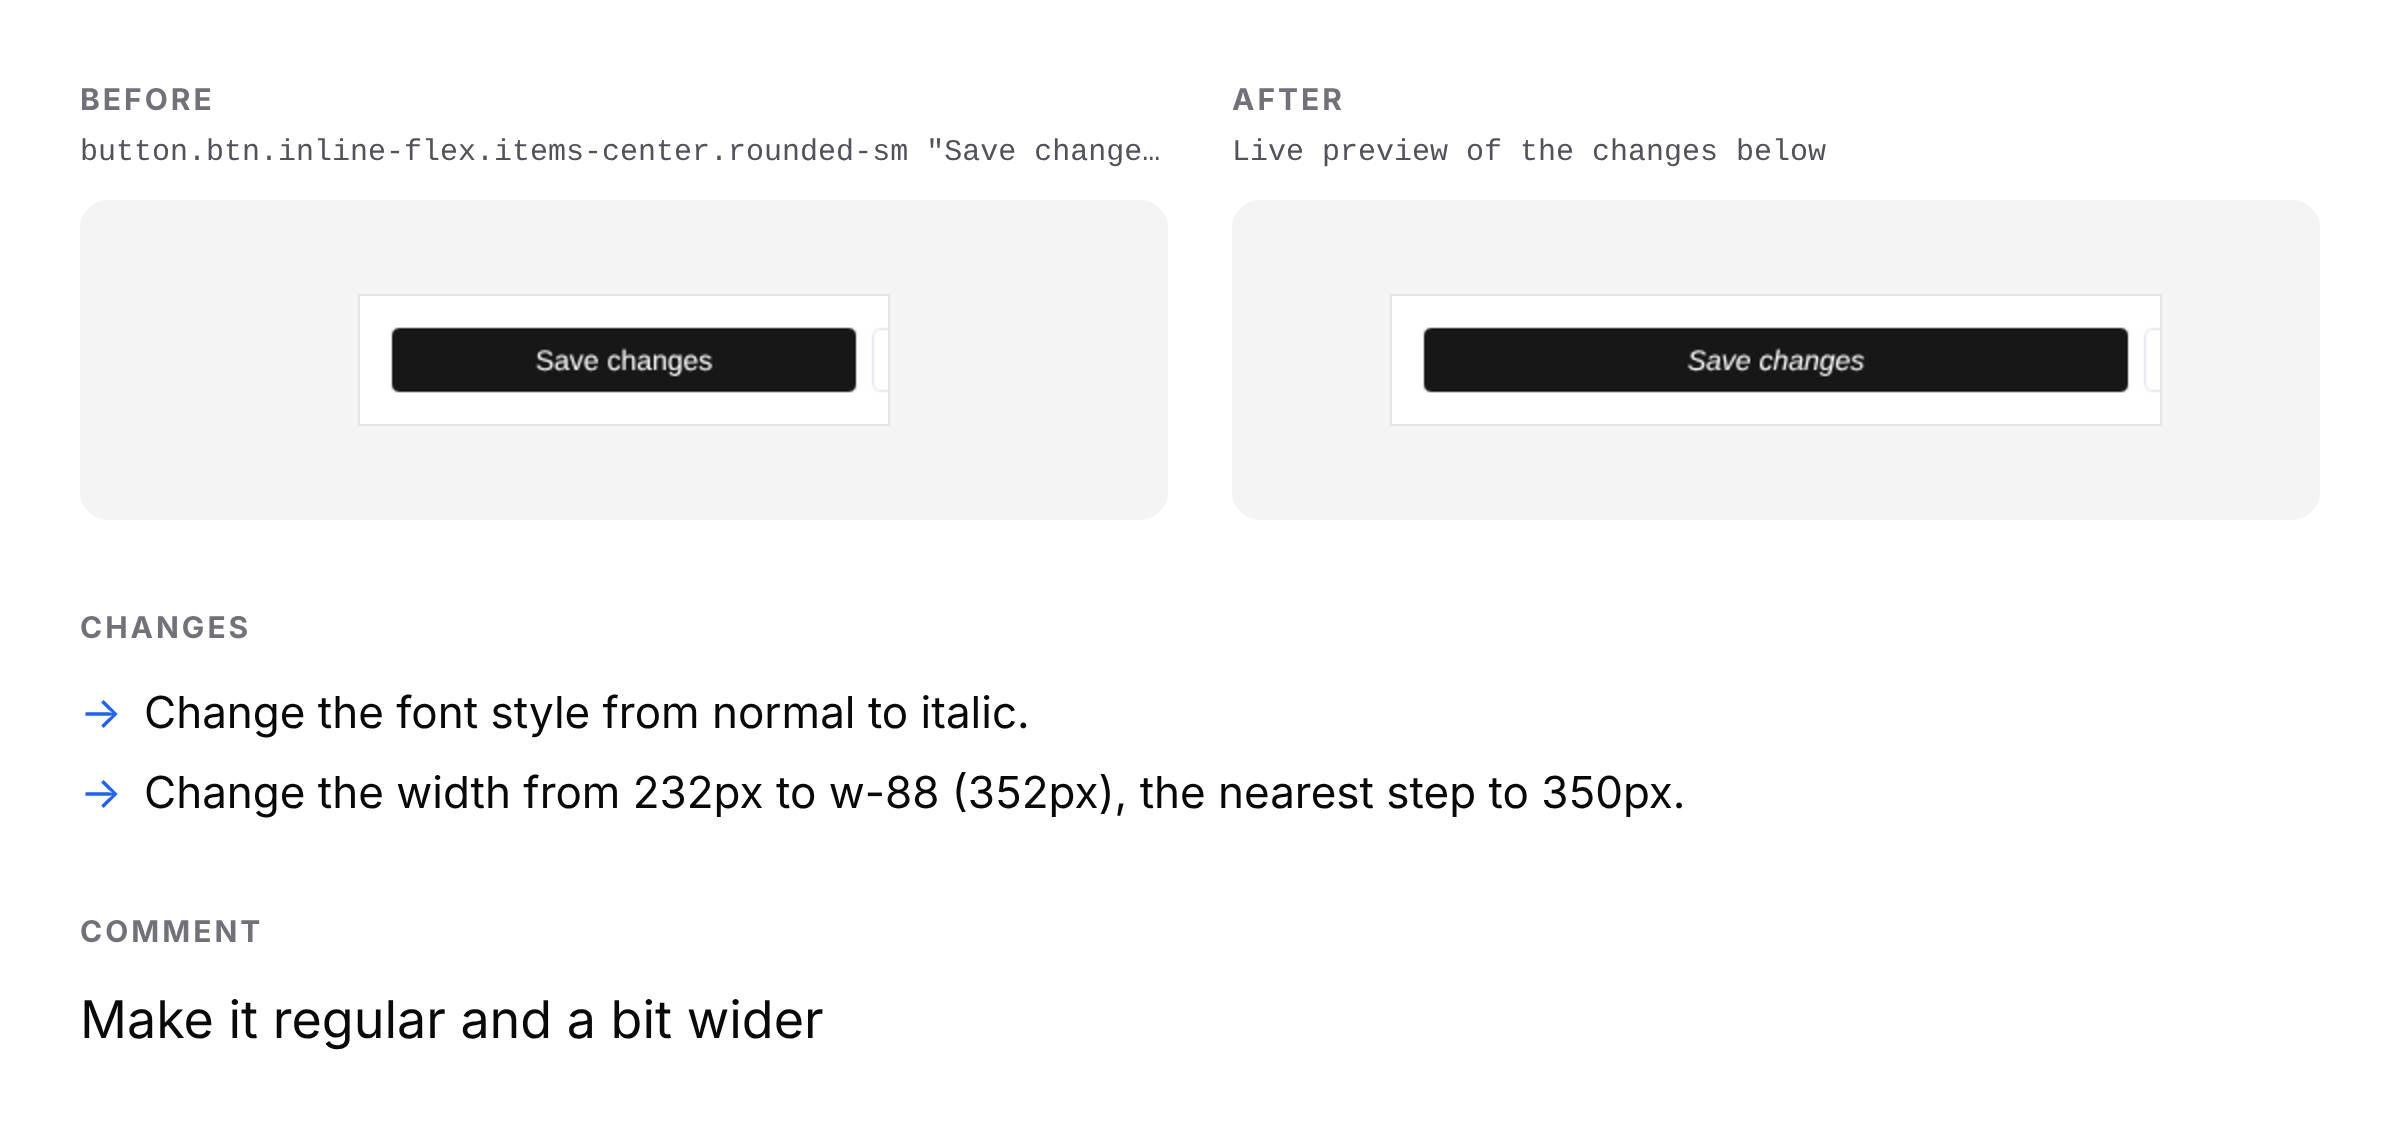
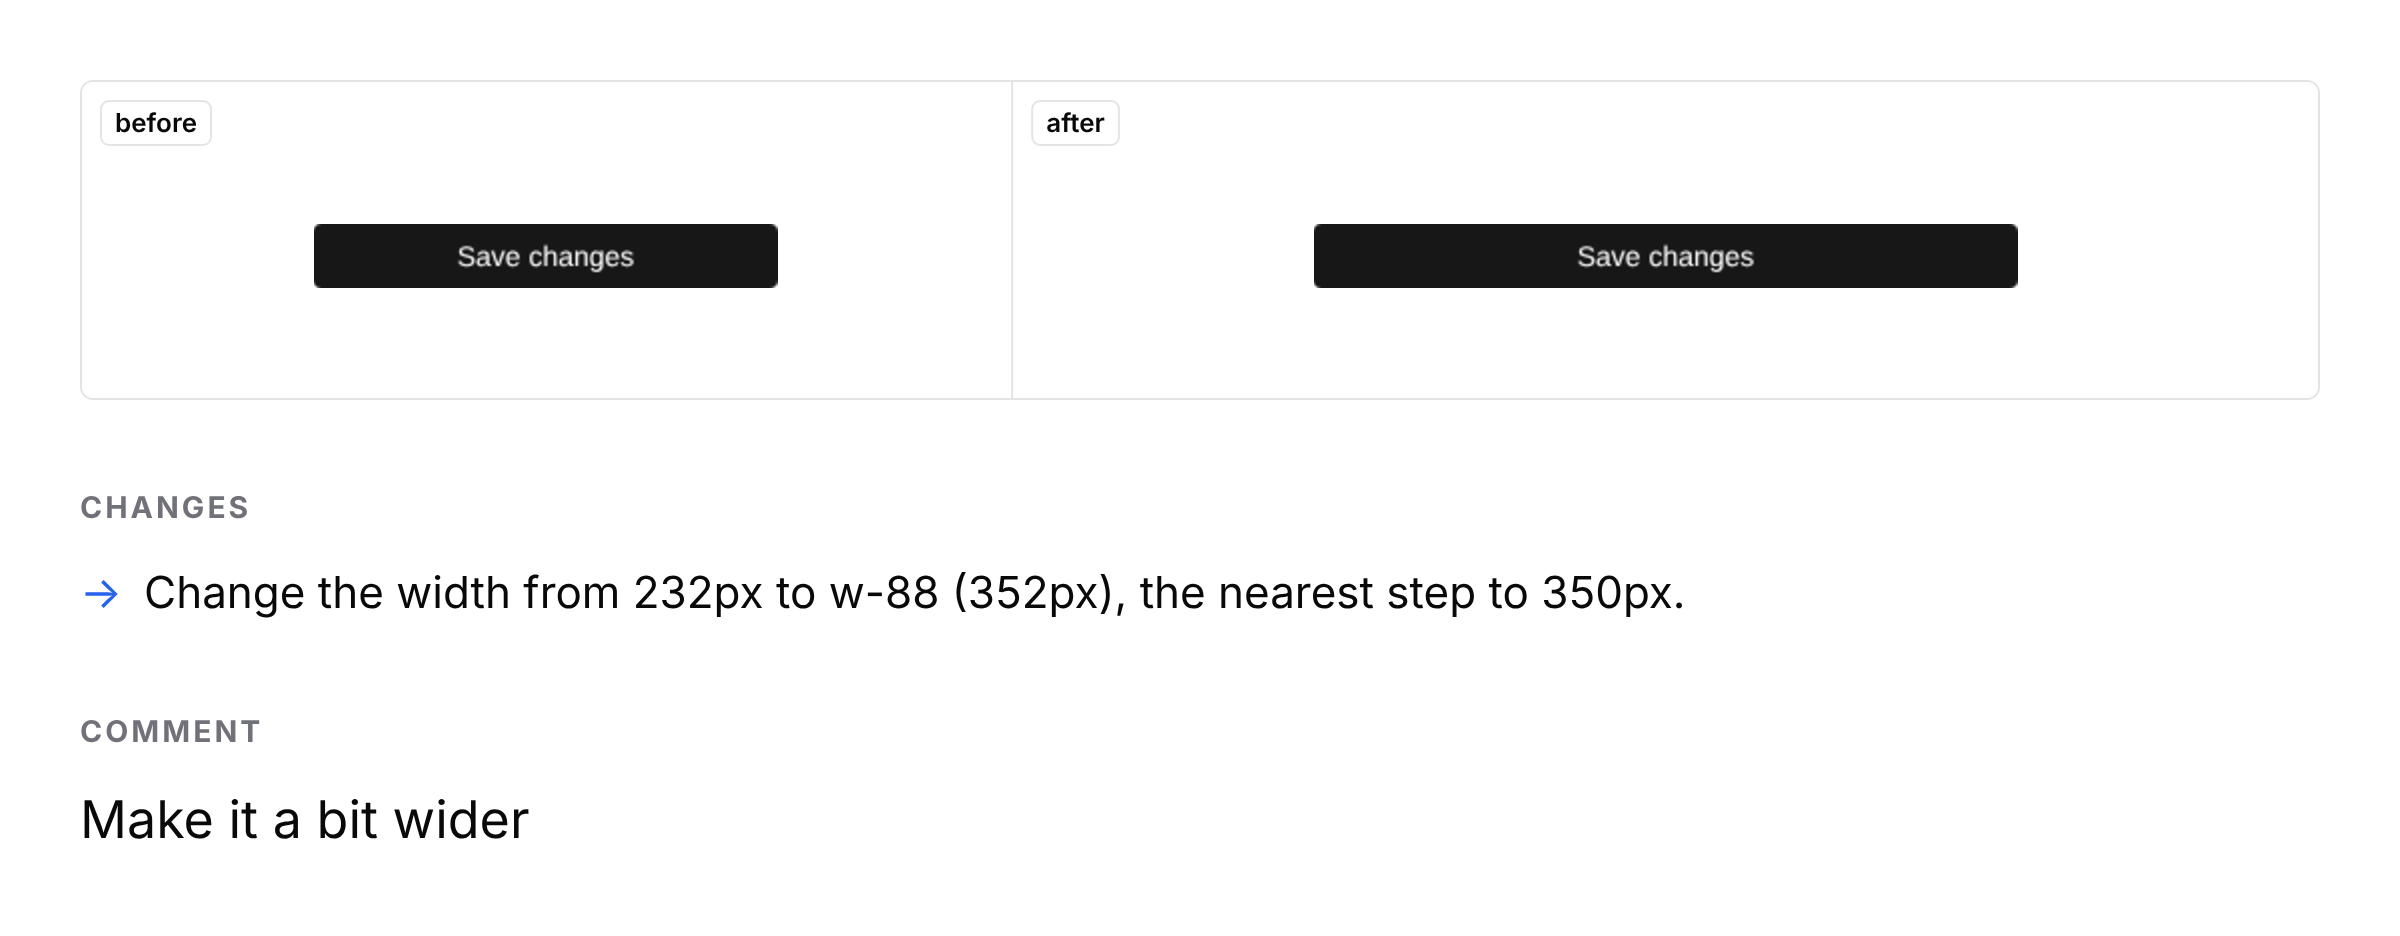
Draw Before and After in one white frame, at the same scale
The handoff image put each picture on a grey panel and fitted each one
separately, so a wide After was shrunk smaller than the Before. Both now
sit in one white frame split by a line, with small boxed before/after
tags, drawn at one shared scale; each column is as wide as its picture,
and spare width is shared in proportion. The README's example image is
regenerated.

diff --git a/src/content/compose.ts b/src/content/compose.ts
@@ -14,12 +14,13 @@ export interface ComposeInput {
 
 const W = 1200
 const PAD = 40
-const GAP = 32
-const COL = (W - PAD * 2 - GAP) / 2
 const SCALE = 2
 // Tall enough that stitched captures of long elements stay readable.
-const MAX_PANEL_H = 1200
-const PANEL_PAD = 20
+const MAX_PICTURE_H = 1160
+/** Room around each picture inside the frame, and above it for the tag. */
+const CELL_PAD = 32
+const TAG_ROOM = 48
+const MIN_FRAME_H = 160
 const BULLET = 32
 const CHANGE_LINE = 32
 const CHANGE_GAP = 8
@@ -32,7 +33,6 @@ const C = {
   muted: '#52525B',
   faint: '#71717A',
   line: '#E4E4E7',
-  panel: '#F4F4F5',
   accent: '#2563EB',
 }
 
@@ -60,25 +60,34 @@ function wrap(ctx: CanvasRenderingContext2D, text: string, width: number): strin
   return out
 }
 
-/** Fit inside the panel; never upscale past 2× CSS size so screenshots stay sharp. */
-function fit(img: { width: number; height: number }, maxW: number, maxH: number) {
-  const cssW = img.width / (window.devicePixelRatio || 1)
-  const cssH = img.height / (window.devicePixelRatio || 1)
-  const s = Math.min(maxW / cssW, maxH / cssH, 2)
-  return { w: cssW * s, h: cssH * s }
+/**
+ * Lay the pictures out side by side in one frame, all at the same scale so
+ * Before and After compare honestly: as large as the frame allows, never past
+ * 2× CSS size so screenshots stay sharp. Each column is as wide as its picture
+ * plus padding, and leftover width is shared out in proportion.
+ */
+function layout(pictures: Picture[], frameW: number) {
+  const dpr = window.devicePixelRatio || 1
+  const css = pictures.map((p) => ({ w: p.width / dpr, h: p.height / dpr }))
+  const room = frameW - pictures.length * CELL_PAD * 2
+  const s = Math.min(2, room / css.reduce((sum, c) => sum + c.w, 0), MAX_PICTURE_H / Math.max(...css.map((c) => c.h)))
+  const sizes = css.map((c) => ({ w: c.w * s, h: c.h * s }))
+  const base = sizes.map((z) => z.w + CELL_PAD * 2)
+  const total = base.reduce((a, b) => a + b, 0)
+  const cols = base.map((b) => (b / total) * frameW)
+  return { sizes, cols, pictureH: Math.max(...sizes.map((z) => z.h)) }
 }
 
 export function compose(input: ComposeInput): HTMLCanvasElement {
   // Measure pass on a scratch context, then draw.
   const scratch = document.createElement('canvas').getContext('2d')!
-  const innerW = COL - PANEL_PAD * 2
-  const innerH = MAX_PANEL_H - PANEL_PAD * 2
-  // With no After the element is the only picture: full width, untagged.
-  const single = !input.after
-  const panelW = single ? W - PAD * 2 : COL
-  const bFit = fit(input.before, panelW - PANEL_PAD * 2, innerH)
-  const aFit = input.after ? fit(input.after, innerW, innerH) : null
-  const panelH = Math.max(160, Math.max(bFit.h, aFit?.h ?? 0) + PANEL_PAD * 2)
+  // With no After the element is the only picture, untagged.
+  const pictures = input.after ? [input.before, input.after] : [input.before]
+  const tags = input.after ? ['before', 'after'] : []
+  const frameW = W - PAD * 2
+  const { sizes, cols, pictureH } = layout(pictures, frameW)
+  const top = tags.length ? TAG_ROOM : CELL_PAD
+  const frameH = Math.max(MIN_FRAME_H, top + pictureH + CELL_PAD)
 
   scratch.font = `400 26px ${SANS}`
   const commentLines = wrap(scratch, input.comment, W - PAD * 2)
@@ -86,8 +95,7 @@ export function compose(input: ComposeInput): HTMLCanvasElement {
   const changeLines = input.changes.map((c) => wrap(scratch, c, W - PAD * 2 - BULLET))
 
   let h = PAD
-  if (!single) h += 22 + 12 // labels
-  h += panelH
+  h += frameH
   if (changeLines.length) h += 44 + 22 + 14 + changeLines.flat().length * CHANGE_LINE + (changeLines.length - 1) * CHANGE_GAP
   if (input.comment) h += 44 + 22 + 14 + commentLines.length * 36
   h += PAD
@@ -110,31 +118,43 @@ export function compose(input: ComposeInput): HTMLCanvasElement {
     ctx.letterSpacing = '0px'
   }
 
-  let y = PAD
-  const xA = PAD + COL + GAP
-
-  // 1. Before | After, or just the element
-  if (!single) {
-    label('Before', PAD, y + 15)
-    label('After', xA, y + 15)
-    y += 22 + 12
-  }
-
-  const panel = (x: number, img: Picture, f: { w: number; h: number }) => {
-    ctx.fillStyle = C.panel
-    ctx.beginPath()
-    ctx.roundRect(x, y, panelW, panelH, 14)
-    ctx.fill()
-    const ix = x + (panelW - f.w) / 2
-    const iy = y + (panelH - f.h) / 2
-    ctx.drawImage(img, ix, iy, f.w, f.h)
+  /** A small boxed tag, like a sticky label on a design frame. */
+  const tag = (text: string, x: number, y: number) => {
+    ctx.font = `600 13px ${SANS}`
+    const w = ctx.measureText(text).width + 14
+    ctx.fillStyle = C.bg
     ctx.strokeStyle = C.line
-    ctx.lineWidth = 1
-    ctx.strokeRect(ix - 0.5, iy - 0.5, f.w + 1, f.h + 1)
+    ctx.beginPath()
+    ctx.roundRect(x + 0.5, y + 0.5, w, 22, 4)
+    ctx.fill()
+    ctx.stroke()
+    ctx.fillStyle = C.ink
+    ctx.fillText(text, x + 7.5, y + 16)
   }
-  panel(PAD, input.before, bFit)
-  if (input.after && aFit) panel(xA, input.after, aFit)
-  y += panelH
+
+  let y = PAD
+
+  // 1. One white frame: Before | After (or just the element), split by a line
+  ctx.strokeStyle = C.line
+  ctx.lineWidth = 1
+  ctx.beginPath()
+  ctx.roundRect(PAD + 0.5, y + 0.5, frameW - 1, frameH - 1, 6)
+  ctx.stroke()
+  let x = PAD
+  pictures.forEach((img, i) => {
+    if (i) {
+      ctx.beginPath()
+      ctx.moveTo(x + 0.5, y)
+      ctx.lineTo(x + 0.5, y + frameH)
+      ctx.stroke()
+    }
+    const z = sizes[i]
+    // Centred in the room below the tags.
+    ctx.drawImage(img, x + (cols[i] - z.w) / 2, y + top + (frameH - top - CELL_PAD - z.h) / 2, z.w, z.h)
+    if (tags[i]) tag(tags[i], x + 10, y + 10)
+    x += cols[i]
+  })
+  y += frameH
 
   // 2. Changes, one sentence per CSS row
   if (changeLines.length) {

diff --git a/CHANGELOG.md b/CHANGELOG.md
@@ -2,6 +2,7 @@
 
 ## Unreleased
 
+- Before and After sit in one white frame, split by a line and tagged like design frames, instead of grey panels. Both are drawn at the same scale, so their sizes compare honestly.
 - Drag a box while selecting to pin any part of the page, such as a frame on a canvas-drawn board like Figma's. Before is exactly the box.
 - The comment is optional: Copy works once there's a comment, an After image or a CSS change, and an empty comment is left out of the image.
 - The copied image no longer prints captions under Before and After (the element's tag and classes, "Pasted target").
